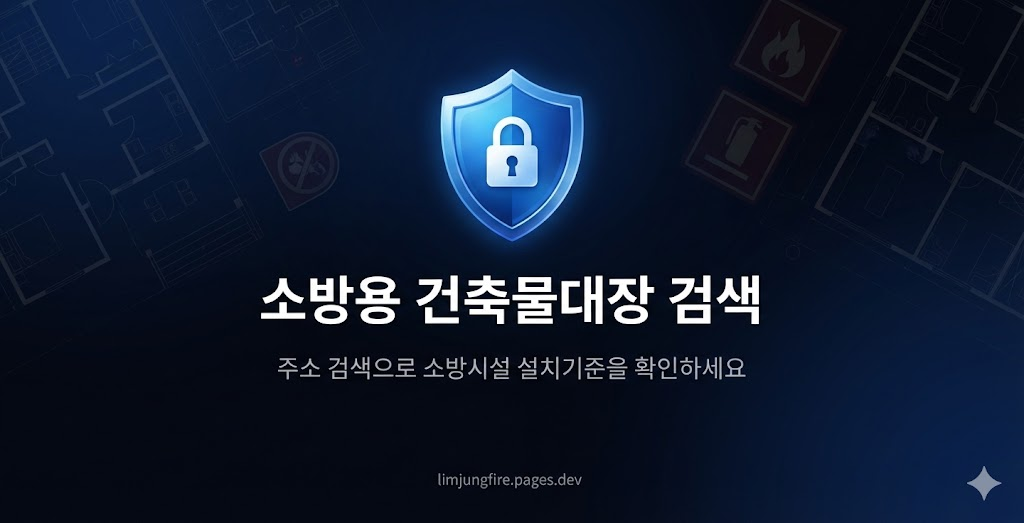
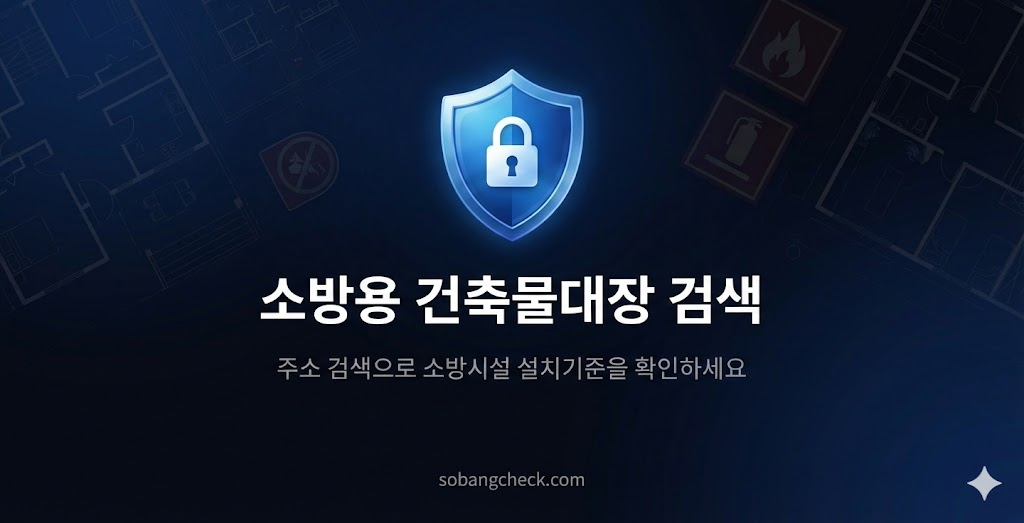
fix: 자동소화장치 아이콘 및 OG 이미지 수정
- 자동소화장치 아이콘을 자물쇠에서 자동분사장치 형태로 변경
- OG 이미지 업데이트
- 불필요한 스크린샷 파일 삭제

diff --git a/js/main.js b/js/main.js
@@ -2507,7 +2507,7 @@ const facilityIcons = {
   '간이스프링클러설비': '<svg viewBox="0 0 24 24" fill="none" stroke="currentColor" stroke-width="1.5"><ellipse cx="12" cy="6" rx="3" ry="1.5"/><path d="M12 7.5v3"/><path d="M8 18l2-7.5"/><path d="M12 10.5v7.5"/><path d="M16 18l-2-7.5"/></svg>',
   '물분무등소화설비': '<svg viewBox="0 0 24 24" fill="none" stroke="currentColor" stroke-width="1.5"><path d="M12 3v5"/><path d="M8 8l4 3 4-3"/><circle cx="6" cy="16" r="2"/><circle cx="12" cy="18" r="2"/><circle cx="18" cy="16" r="2"/><circle cx="9" cy="13" r="1.5"/><circle cx="15" cy="13" r="1.5"/></svg>',
   '옥외소화전설비': '<svg viewBox="0 0 24 24" fill="none" stroke="currentColor" stroke-width="1.5"><path d="M8 21h8"/><rect x="9" y="10" width="6" height="11"/><ellipse cx="12" cy="10" rx="3" ry="2"/><path d="M6 14h3"/><path d="M15 14h3"/><path d="M12 4v6"/><circle cx="12" cy="4" r="2"/></svg>',
-  '자동소화장치': '<svg viewBox="0 0 24 24" fill="none" stroke="currentColor" stroke-width="1.5"><rect x="5" y="8" width="14" height="12" rx="2"/><path d="M8 8V6a4 4 0 0 1 8 0v2"/><path d="M12 12v4"/><path d="M10 14h4"/><circle cx="12" cy="16" r="1"/></svg>',
+  '자동소화장치': '<svg viewBox="0 0 24 24" fill="none" stroke="currentColor" stroke-width="1.5"><rect x="8" y="12" width="8" height="9" rx="1"/><path d="M12 12v-3"/><path d="M10 9h4"/><path d="M6 5l2 2"/><path d="M12 3v3"/><path d="M18 5l-2 2"/></svg>',
   '자동화재탐지설비': '<svg viewBox="0 0 24 24" fill="none" stroke="currentColor" stroke-width="1.5"><circle cx="12" cy="12" r="8"/><circle cx="12" cy="12" r="3"/><path d="M12 2v2"/><path d="M12 20v2"/><path d="M2 12h2"/><path d="M20 12h2"/></svg>',
   '비상경보설비': '<svg viewBox="0 0 24 24" fill="none" stroke="currentColor" stroke-width="1.5"><path d="M18 8A6 6 0 0 0 6 8c0 7-3 9-3 9h18s-3-2-3-9"/><path d="M13.73 21a2 2 0 0 1-3.46 0"/><path d="M12 2v2"/></svg>',
   '비상방송설비': '<svg viewBox="0 0 24 24" fill="none" stroke="currentColor" stroke-width="1.5"><path d="M6 12h2l6-5v14l-6-5H6V12z"/><path d="M17 9a4 4 0 0 1 0 6"/><path d="M19.5 6.5a8 8 0 0 1 0 11"/></svg>',

diff --git a/css/style.css b/css/style.css
@@ -1100,6 +1100,21 @@ header h1 {
   line-height: 1.5;
 }
 
+.auth-modal-terms {
+  font-size: 12px;
+  color: var(--text-tertiary);
+  margin: 12px 0 0;
+}
+
+.auth-modal-terms a {
+  color: var(--text-tertiary);
+  text-decoration: underline;
+}
+
+.auth-modal-terms a:hover {
+  color: var(--text-secondary);
+}
+
 /* History Tabs */
 .history-tabs {
   display: flex;
@@ -1831,6 +1846,7 @@ footer {
 .map-tabs {
   display: flex;
   border-bottom: 1px solid var(--border-color);
+  flex-shrink: 0;
 }
 
 .map-tab {
@@ -1867,6 +1883,7 @@ footer {
 .map-modal-content {
   max-width: 700px;
   width: 95%;
+  max-height: none;
   overflow: visible;
   position: relative;
 }
@@ -1877,7 +1894,7 @@ footer {
 
 .map-modal-content .map-close-btn {
   position: absolute;
-  top: 50px;
+  top: 8px;
   right: 8px;
   z-index: 100;
   background: rgba(0,0,0,0.6);
@@ -1900,11 +1917,19 @@ footer {
   padding: 0;
   overflow: hidden;
   border-radius: var(--radius-xl);
+  display: flex;
+  flex-direction: column;
+  max-height: none;
+  height: auto;
 }
 
 .map-container {
   width: 100%;
   background: var(--bg-tertiary);
+  display: flex;
+  flex-direction: column;
+  flex: 1;
+  min-height: 0;
 }
 
 .map-error {
@@ -1935,6 +1960,7 @@ footer {
   background: var(--bg-secondary);
   cursor: pointer;
   transition: all var(--transition-fast);
+  flex-shrink: 0;
 }
 
 .map-address-bar:hover {
@@ -1989,10 +2015,12 @@ footer {
   .map-modal-content {
     max-width: 95%;
     width: 95%;
+    height: 85vh;
+    max-height: 85vh;
   }
 
   .map-modal-content .map-close-btn {
-    top: 48px;
+    top: 6px;
     right: 6px;
     width: 32px;
     height: 32px;
@@ -2003,9 +2031,14 @@ footer {
     height: 16px;
   }
 
+  .map-modal-body {
+    height: 100%;
+  }
+
   .map-area {
-    height: 60vh;
-    min-height: 300px;
+    flex: 1;
+    min-height: 200px;
+    height: auto;
   }
 
   .map-address-text {
@@ -2014,6 +2047,7 @@ footer {
 
   .map-address-bar {
     padding: 10px 12px;
+    flex-shrink: 0;
   }
 }
 
